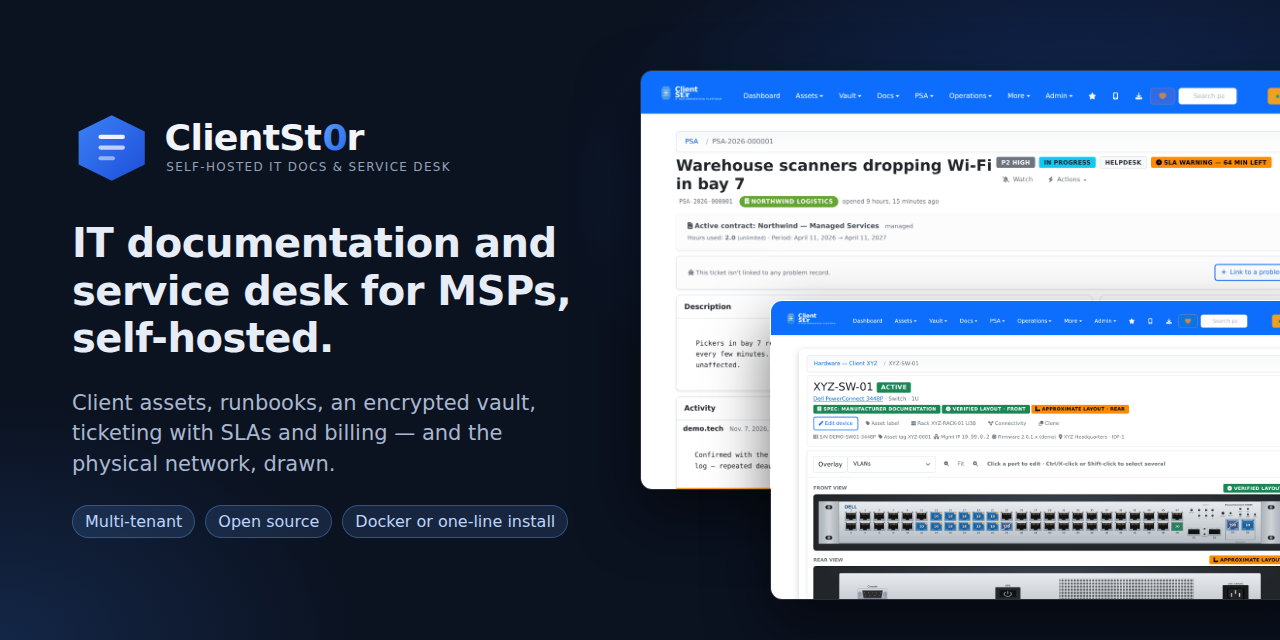
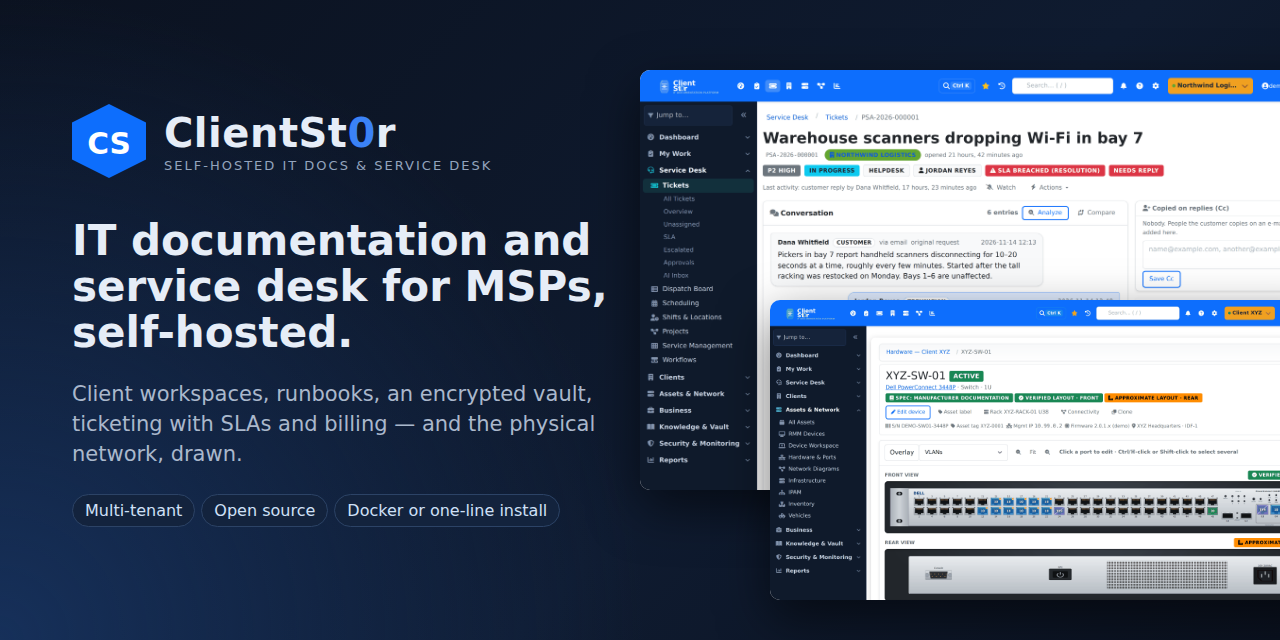
sidebar stays in place on long pages; table columns break between words; importer guides without competitor positioning; social preview rebuilt with a script

diff --git a/static/css/ui.css b/static/css/ui.css
@@ -495,11 +495,13 @@ main .table th.ui-actions {
 }
 .ui-actions .btn + .btn { margin-left: var(--ui-1); }
 
-/* Long names and subjects wrap instead of forcing the page sideways. */
+/* Long names and subjects wrap between words. Not `anywhere` (nor the
+   legacy `word-break: break-word`): those let a column shrink until words
+   split mid-word ("Unassigne d"). A single over-long word widens its column
+   instead, and the table scrolls inside .ui-table-wrap. */
 .ui-wrap {
     white-space: normal;
-    overflow-wrap: anywhere;
-    word-break: break-word;
+    overflow-wrap: break-word;
 }
 
 /* -------------------------------------------------------------------------
@@ -539,6 +541,8 @@ main .table th.ui-actions {
     font-size: var(--ui-text-sm);
     color: var(--ui-muted);
 }
+/* A client column keeps room for a short client name on one line. */
+td.ui-wrap:has(> .ui-org:only-child) { min-width: 7rem; }
 
 /* A record number: findable, not shouty. */
 .ui-ref {
@@ -621,8 +625,10 @@ body:not(.has-background) { background: var(--ui-page-bg); }
 }
 
 /* Nothing may push the whole page sideways; wide tables scroll in their own
-   container instead (see .ui-table-wrap). */
-html, body { overflow-x: hidden; }
+   container instead (see .ui-table-wrap). `clip`, not `hidden`: hidden
+   turns body into a scroll container, and the sticky sidebar then scrolls
+   away with the page. Browsers without `clip` keep `hidden`. */
+html, body { overflow-x: hidden; overflow-x: clip; }
 
 /* =========================================================================
    13. Application header

diff --git a/templates/psa/ticket_list.html b/templates/psa/ticket_list.html
@@ -100,7 +100,7 @@ and mark the current one, so back/forward and bookmarks land on the same tab.
                         <th class="d-none d-md-table-cell">Assignee</th>
                         <th>Next</th>
                         <th class="d-none d-lg-table-cell">Last activity</th>
-                        <th class="d-none d-lg-table-cell">Created</th>
+                        <th class="d-none d-lg-table-cell tl-col-created">Created</th>
                         {% endif %}
                     </tr>
                 </thead>
@@ -147,7 +147,7 @@ and mark the current one, so back/forward and bookmarks land on the same tab.
                             <time datetime="{{ t.last_action.at|date:'c' }}" title="{{ t.last_action.at }}">{{ t.last_action.at|timesince }} ago</time>
                             <div class="text-muted">{{ t.last_action.kind|capfirst }}{% if t.last_action.by %} · {{ t.last_action.by }}{% endif %}</div>
                         </td>
-                        <td class="d-none d-lg-table-cell">
+                        <td class="d-none d-lg-table-cell tl-col-created">
                             <time datetime="{{ t.created_at|date:'c' }}" title="{{ t.created_at }}">{{ t.created_at|timesince }} ago</time>
                         </td>
                         {% endif %}

diff --git a/static/css/navigation.css b/static/css/navigation.css
@@ -639,7 +639,7 @@ main:has(.breadcrumb:not(.app-trail__list)) .app-trail { display: none; }
 /* Ticket list: the subject keeps a readable width when columns are tight
    (browsers ignore min-width on table cells, so it sits on the link; the
    table then scrolls sideways inside .ui-table-wrap). */
-.ticket-subject .ui-primary-cell { display: inline-block; min-width: 11rem; }
+.ticket-subject .ui-primary-cell { display: inline-block; min-width: 10rem; }
 
 /* ==========================================================================
    Settings center (templates/core/settings_home.html): the Administration

diff --git a/static/css/ticket_workspace.css b/static/css/ticket_workspace.css
@@ -64,3 +64,9 @@ details.tw-filters > summary.tw-filters__toggle { display: none; list-style: non
 @media (max-width: 575.98px) {
     details.tw-filters > summary.tw-filters__toggle { display: inline-block; }
 }
+
+/* All Tickets: "Created" gives way below 1600px so the client column has
+   room (Last activity stays; the ticket page shows when it was opened). */
+@media (max-width: 1599.98px) {
+    .tl-col-created { display: none !important; }
+}

diff --git a/scripts/demo/build_social_preview.py b/scripts/demo/build_social_preview.py
@@ -1,0 +1,74 @@
+"""Build docs/images/github/social-preview.png (1280x640, GitHub's size).
+
+The wordmark, a one-line pitch, and two of the gallery screenshots (the
+ticket page and the switch panel). Rebuild it after recapturing those two:
+
+    /usr/bin/python3 scripts/demo/build_social_preview.py
+
+Needs Playwright (system Python). GitHub has no API for the social preview,
+so upload the result by hand: Settings -> General -> Social preview.
+"""
+import pathlib
+
+from playwright.sync_api import sync_playwright
+
+ROOT = pathlib.Path(__file__).resolve().parents[2]
+IMG = ROOT / 'docs' / 'images' / 'github'
+OUT = IMG / 'social-preview.png'
+BACK = IMG / 'ticket-detail-light.png'
+FRONT = IMG / 'hardware-device-light.png'
+LOGO = ROOT / 'static' / 'images' / 'favicon.svg'
+
+HTML = """<!doctype html><html><head><meta charset="utf-8"><style>
+html, body { margin: 0; width: 1280px; height: 640px; overflow: hidden; }
+body { font-family: "DejaVu Sans", "Segoe UI", Arial, sans-serif; color: #e6edf7;
+       background: radial-gradient(circle at 0% 100%, #16305a 0, transparent 45%),
+                   linear-gradient(135deg, #0b1220 0%, #0f1b30 60%, #0b1220 100%); }
+.left { position: absolute; left: 72px; top: 104px; width: 540px; }
+.brand { display: flex; align-items: center; gap: 18px; }
+.brand img { width: 74px; height: 74px; }
+.name { font-size: 40px; font-weight: 700; letter-spacing: .5px; }
+.name b { color: #3b82f6; }
+.tag { font-size: 13px; letter-spacing: 2px; color: #93a4bd; margin-top: 2px; }
+h1 { font-size: 42px; line-height: 1.1; margin: 40px 0 22px; font-weight: 700; }
+p { font-size: 21px; line-height: 1.45; color: #aab8cc; margin: 0 0 24px; }
+.pills span { display: inline-block; font-size: 16px; padding: 6px 12px; margin-right: 6px;
+              border: 1px solid #2c4366; border-radius: 999px; background: #13233d; color: #cfe0f7; }
+.shot { position: absolute; border-radius: 10px; overflow: hidden;
+        box-shadow: 0 18px 50px rgba(0,0,0,.55); background: #fff; }
+.shot img { display: block; width: 100%; height: 100%; object-fit: cover; object-position: left top; }
+.back { left: 640px; top: 70px; width: 680px; height: 420px; }
+.front { left: 770px; top: 300px; width: 560px; height: 300px; }
+</style></head><body>
+<div class="left">
+  <div class="brand"><img src="LOGO" alt="">
+    <div><div class="name">ClientSt<b>0</b>r</div><div class="tag">SELF-HOSTED IT DOCS &amp; SERVICE DESK</div></div></div>
+  <h1>IT documentation and service desk for MSPs, self-hosted.</h1>
+  <p>Client workspaces, runbooks, an encrypted vault, ticketing with SLAs and billing &mdash;
+     and the physical network, drawn.</p>
+  <div class="pills"><span>Multi-tenant</span><span>Open source</span><span>Docker or one-line install</span></div>
+</div>
+<div class="shot back"><img src="BACK" alt=""></div>
+<div class="shot front"><img src="FRONT" alt=""></div>
+</body></html>"""
+
+
+def main():
+    html = (HTML.replace('LOGO', LOGO.as_uri()).replace('BACK', BACK.as_uri())
+            .replace('FRONT', FRONT.as_uri()))
+    tmp = OUT.with_suffix('.html')
+    tmp.write_text(html)
+    try:
+        with sync_playwright() as p:
+            browser = p.chromium.launch()
+            page = browser.new_page(viewport={'width': 1280, 'height': 640})
+            page.goto(tmp.as_uri(), wait_until='networkidle')
+            page.screenshot(path=str(OUT))
+            browser.close()
+    finally:
+        tmp.unlink(missing_ok=True)
+    print(OUT)
+
+
+if __name__ == '__main__':
+    main()

diff --git a/docs/importing-from-hudu.md b/docs/importing-from-hudu.md
@@ -1,10 +1,9 @@
-# Moving from IT Glue to ClientSt0r
+# Importing from Hudu
 
 ClientSt0r is a self-hosted, MIT-licensed IT documentation and service desk platform for
-MSPs. Teams coming from IT Glue often evaluate it because they want documentation,
-credentials, assets and ticketing in one system they run themselves. This page describes
-what ClientSt0r offers and how much of an IT Glue account its importer brings over today.
-It makes no claims about IT Glue's current features or pricing.
+MSPs, with documentation, credentials, assets and ticketing in one system you run yourself.
+This page covers its built-in Hudu importer: what it brings over today and what to plan
+for before switching.
 
 ## ClientSt0r at a glance
 
@@ -35,25 +34,23 @@ It makes no claims about IT Glue's current features or pricing.
 
 Full list with limitations: [FEATURES.md](../FEATURES.md).
 
-## What the IT Glue importer brings over
+## What the Hudu importer brings over
 
-The importer (**Imports**, `/imports/`) connects to the IT Glue API with an API key.
+The importer (**Imports**, `/imports/`) connects to your Hudu instance's API with an API key.
 
-| IT Glue data | Imported today |
+| Hudu data | Imported today |
 | --- | --- |
-| Organizations | Yes — matched to existing organizations, or created |
-| Configurations (as assets) | Yes |
-| Passwords | Yes — encrypted on arrival |
-| Documents | Yes |
+| Companies (as organizations) | Yes — matched to existing organizations, or created |
+| Assets | Yes |
+| Asset passwords | Yes — encrypted on arrival |
+| Articles (as documents) | Yes |
 | Contacts | Not yet |
 | Locations | Not yet |
 | Networks | Not yet |
-| Flexible assets, attachments, relationships, permissions | Not yet |
+| Attachments, relationships, permissions | Not yet |
 
 - A **dry run** is on by default and reports counts without writing anything.
 - Each job keeps a log and history, and imported records are tagged with their source.
-- **One or all organizations.** Import into a single target organization, or import every
-  IT Glue organization at once.
 - Each record goes to the client its source record belongs to.
 - A job shows "Completed" only when nothing failed; otherwise "Completed with errors" or
   "Failed", with imported / skipped / failed counts that add up to the source total, and the
@@ -65,7 +62,7 @@ The importer (**Imports**, `/imports/`) connects to the IT Glue API with an API 
 ## Before you switch
 
 * Run a dry run, then a real import into a test organization, and compare record counts
-  with IT Glue.
+  with Hudu.
 * Plan how you will bring over contacts, locations and networks (CSV import or by hand)
   until those importers ship. CSV contact and password imports work, and re-running a CSV
   import updates matching rows instead of duplicating them.

diff --git a/docs/importing-from-it-glue.md b/docs/importing-from-it-glue.md
@@ -1,10 +1,9 @@
-# Moving from Hudu to ClientSt0r
+# Importing from IT Glue
 
 ClientSt0r is a self-hosted, MIT-licensed IT documentation and service desk platform for
-MSPs. Teams coming from Hudu often evaluate it because they want documentation,
-credentials, assets and ticketing in one system they run themselves. This page describes
-what ClientSt0r offers and how much of a Hudu instance its importer brings over today. It
-makes no claims about Hudu's current features or pricing.
+MSPs, with documentation, credentials, assets and ticketing in one system you run yourself.
+This page covers its built-in IT Glue importer: what it brings over today and what to plan
+for before switching.
 
 ## ClientSt0r at a glance
 
@@ -35,23 +34,25 @@ makes no claims about Hudu's current features or pricing.
 
 Full list with limitations: [FEATURES.md](../FEATURES.md).
 
-## What the Hudu importer brings over
+## What the IT Glue importer brings over
 
-The importer (**Imports**, `/imports/`) connects to your Hudu instance's API with an API key.
+The importer (**Imports**, `/imports/`) connects to the IT Glue API with an API key.
 
-| Hudu data | Imported today |
+| IT Glue data | Imported today |
 | --- | --- |
-| Companies (as organizations) | Yes — matched to existing organizations, or created |
-| Assets | Yes |
-| Asset passwords | Yes — encrypted on arrival |
-| Articles (as documents) | Yes |
+| Organizations | Yes — matched to existing organizations, or created |
+| Configurations (as assets) | Yes |
+| Passwords | Yes — encrypted on arrival |
+| Documents | Yes |
 | Contacts | Not yet |
 | Locations | Not yet |
 | Networks | Not yet |
-| Attachments, relationships, permissions | Not yet |
+| Flexible assets, attachments, relationships, permissions | Not yet |
 
 - A **dry run** is on by default and reports counts without writing anything.
 - Each job keeps a log and history, and imported records are tagged with their source.
+- **One or all organizations.** Import into a single target organization, or import every
+  IT Glue organization at once.
 - Each record goes to the client its source record belongs to.
 - A job shows "Completed" only when nothing failed; otherwise "Completed with errors" or
   "Failed", with imported / skipped / failed counts that add up to the source total, and the
@@ -63,7 +64,7 @@ The importer (**Imports**, `/imports/`) connects to your Hudu instance's API wit
 ## Before you switch
 
 * Run a dry run, then a real import into a test organization, and compare record counts
-  with Hudu.
+  with IT Glue.
 * Plan how you will bring over contacts, locations and networks (CSV import or by hand)
   until those importers ship. CSV contact and password imports work, and re-running a CSV
   import updates matching rows instead of duplicating them.

diff --git a/docs/github-about.md b/docs/github-about.md
@@ -99,7 +99,7 @@ been applied.
 | `helpdesk` | **add** | Common search term for the service-desk half of the product. |
 | `ldap` | **add** | LDAP / Active Directory sign-in ships (v3.17.608). |
 | `docker` | **add** | First-class install path with a published image at `ghcr.io/agit8or1/clientst0r`. |
-| `it-glue-alternative` | **remove** | Competitor name in project metadata; the comparison pages under `docs/` still exist for anyone searching. |
+| `it-glue-alternative` | **remove** | Competitor name in project metadata; the importer guides under `docs/` cover moving data in. |
 | `hudu-alternative` | **remove** | Same. |
 | `rmm` | **remove** | ClientSt0r integrates with RMM tools but is not one — the topic invites the wrong expectation. |
 | `workflow-engine` | keep or drop | Accurate (workflow rules ship), but lower search value than the additions above. Drop it if you need the slot. |
@@ -118,8 +118,9 @@ Existing topics kept as-is: `msp`, `self-hosted`, `it-documentation`, `service-d
   size GitHub wants): the wordmark, a one-line pitch, and the ticket and switch-panel
   screenshots. GitHub has no API for this, so upload it by hand under **Settings → General
   → Social preview → Edit → Upload an image**. Rebuild it whenever those two screenshots
-  change noticeably. No script builds it; the current file still shows the screenshots
-  from before the v3.17.680 navigation.
+  change noticeably: `/usr/bin/python3 scripts/demo/build_social_preview.py` (system
+  Python with Playwright) rebuilds it from `ticket-detail-light.png` and
+  `hardware-device-light.png`.
 
 ## Related links to keep visible
 

diff --git a/COMPARISON.md b/COMPARISON.md
@@ -4,10 +4,8 @@
 
 [![License: MIT](https://img.shields.io/github/license/agit8or1/clientst0r?color=blue)](LICENSE) [![Latest release](https://img.shields.io/github/v/release/agit8or1/clientst0r?label=release)](https://github.com/agit8or1/clientst0r/releases)
 
-This page is for teams deciding whether ClientSt0r fits, including teams moving from IT
-Glue or Hudu. It describes what ClientSt0r does and how far its importers go. It does not
-compare other products' current features or prices; check those vendors' own
-documentation for that.
+This page is for teams deciding whether ClientSt0r fits. It describes what ClientSt0r
+does, what is limited or planned, and how far its built-in importers go.
 
 Capability labels follow [FEATURES.md](FEATURES.md): **Available**, **Limited** (works,
 with a stated limitation), **Planned**, and **Separate component**.
@@ -119,7 +117,7 @@ find each screen.
 
 ---
 
-## Migrating from IT Glue or Hudu
+## Importing existing documentation
 
 ClientSt0r has built-in importers for both, under **Imports** (`/imports/`). They connect to
 the source system's API with your API key.
@@ -184,8 +182,8 @@ Full guides: [README](README.md#quick-start), [INSTALL.md](INSTALL.md),
 ## Learn more
 
 - [Full feature list](FEATURES.md)
-- [Moving from IT Glue](docs/it-glue-alternative.md)
-- [Moving from Hudu](docs/hudu-alternative.md)
+- [Importing from IT Glue](docs/importing-from-it-glue.md)
+- [Importing from Hudu](docs/importing-from-hudu.md)
 - [API documentation](API_V2_GRAPHQL.md)
 - [Security policy](SECURITY.md)
 - [Changelog](CHANGELOG.md)

diff --git a/.github/repository-metadata.md b/.github/repository-metadata.md
@@ -1,8 +1,11 @@
 # Repository Metadata (GitHub About Section)
 
+The live values are set with `gh repo edit`; see [docs/github-about.md](../docs/github-about.md)
+for the reasoning behind each topic.
+
 ## Description
 
-Open-source, self-hosted MSP documentation platform commonly evaluated as an IT Glue and Hudu alternative.
+Self-hosted IT documentation and service desk for MSPs. Client workspaces, assets, runbooks, an encrypted credential vault, native ticketing with SLAs, contracts and invoices, and the physical network drawn: racks, switch ports, cables. Multi-tenant, with Ctrl+K search across it all. Django 6 + MariaDB, Docker or one-line install.
 
 ## Website
 
@@ -10,13 +13,6 @@ https://github.com/agit8or1/clientst0r
 
 ## Topics
 
-msp
-documentation
-it-documentation
-knowledge-base
-self-hosted
-open-source
-it-glue-alternative
-hudu-alternative
-devops
-homelab
+msp, self-hosted, it-documentation, service-desk, ticketing, psa, asset-management,
+password-vault, knowledge-base, multi-tenant, ldap, sla, helpdesk, network-documentation,
+network-diagram, cable-management, django, python, docker, open-source

diff --git a/docs/faq.md b/docs/faq.md
@@ -22,8 +22,8 @@ and bring over assets, passwords and documents, each into the client its source 
 belongs to. Contacts, locations and networks are not imported yet (CSV import covers
 contacts). A dry run is on by default and writes nothing; a job reports "Completed" only
 when nothing failed, and rollback keeps anything edited since the import. Review the result
-before switching over. See [Moving from IT Glue](it-glue-alternative.md)
-and [Moving from Hudu](hudu-alternative.md).
+before switching over. See [Importing from IT Glue](importing-from-it-glue.md)
+and [Importing from Hudu](importing-from-hudu.md).
 
 ## Installation
 

diff --git a/docs/README.md b/docs/README.md
@@ -44,5 +44,5 @@ Start at the [README](../README.md) for positioning, screenshots and install ste
 * [What is ClientSt0r?](what-is-clientst0r.md)
 * [MSP documentation overview](msp-documentation.md)
 * [Comparison notes](../COMPARISON.md)
-* [ClientSt0r as an IT Glue alternative](it-glue-alternative.md)
-* [ClientSt0r as a Hudu alternative](hudu-alternative.md)
+* [Importing from IT Glue](importing-from-it-glue.md)
+* [Importing from Hudu](importing-from-hudu.md)
